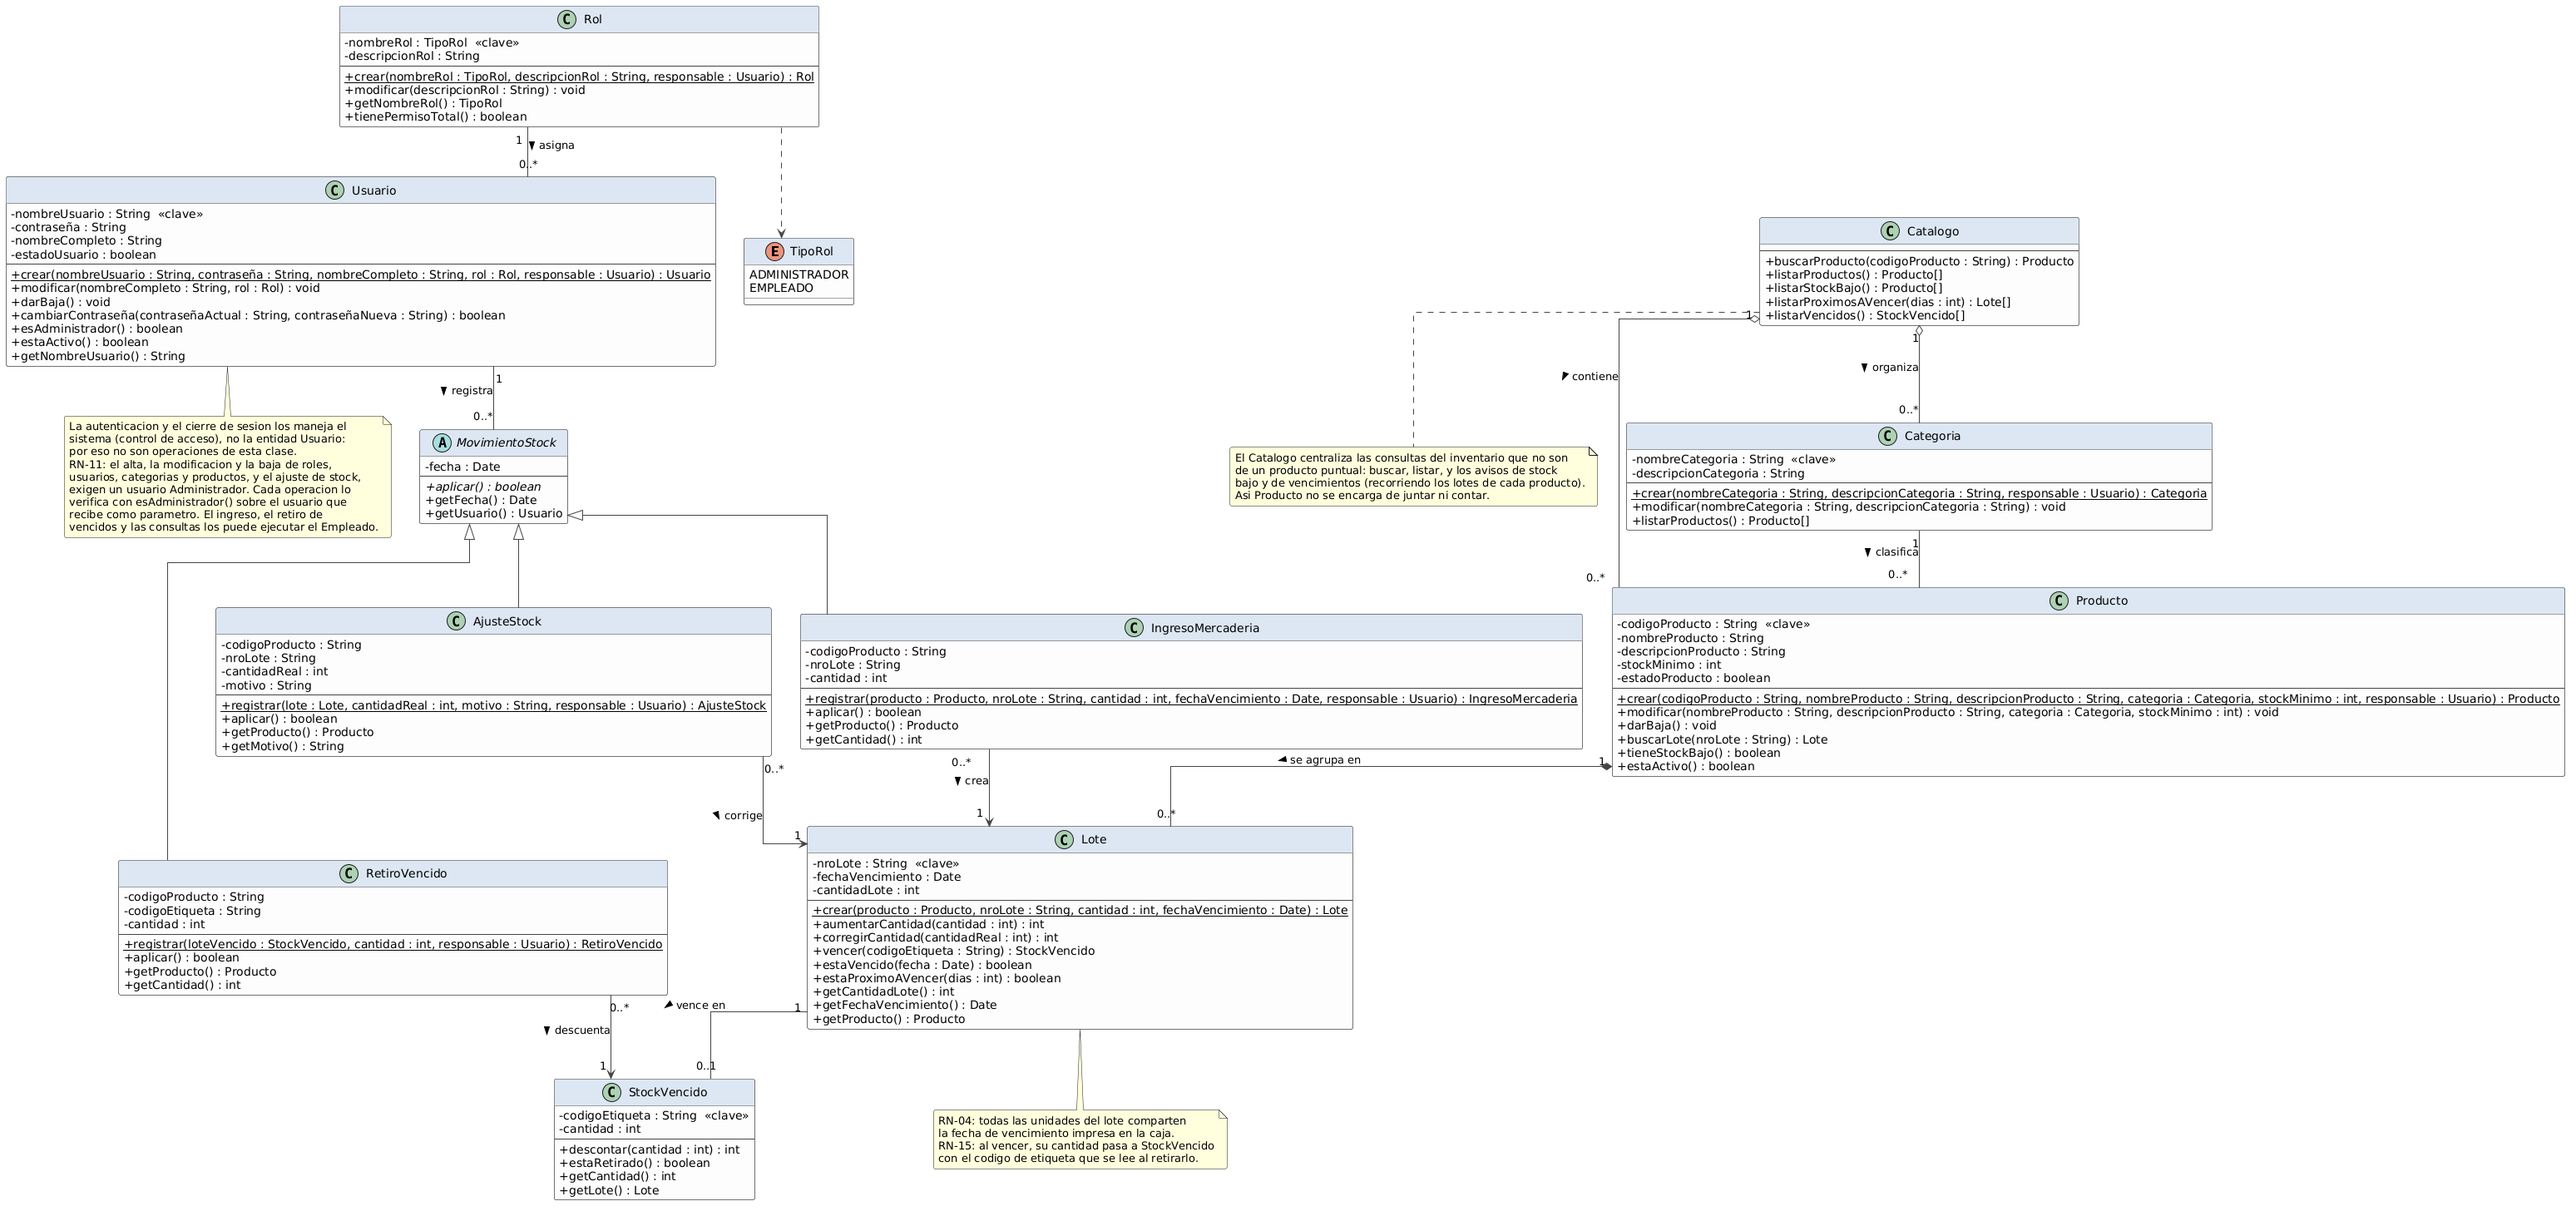
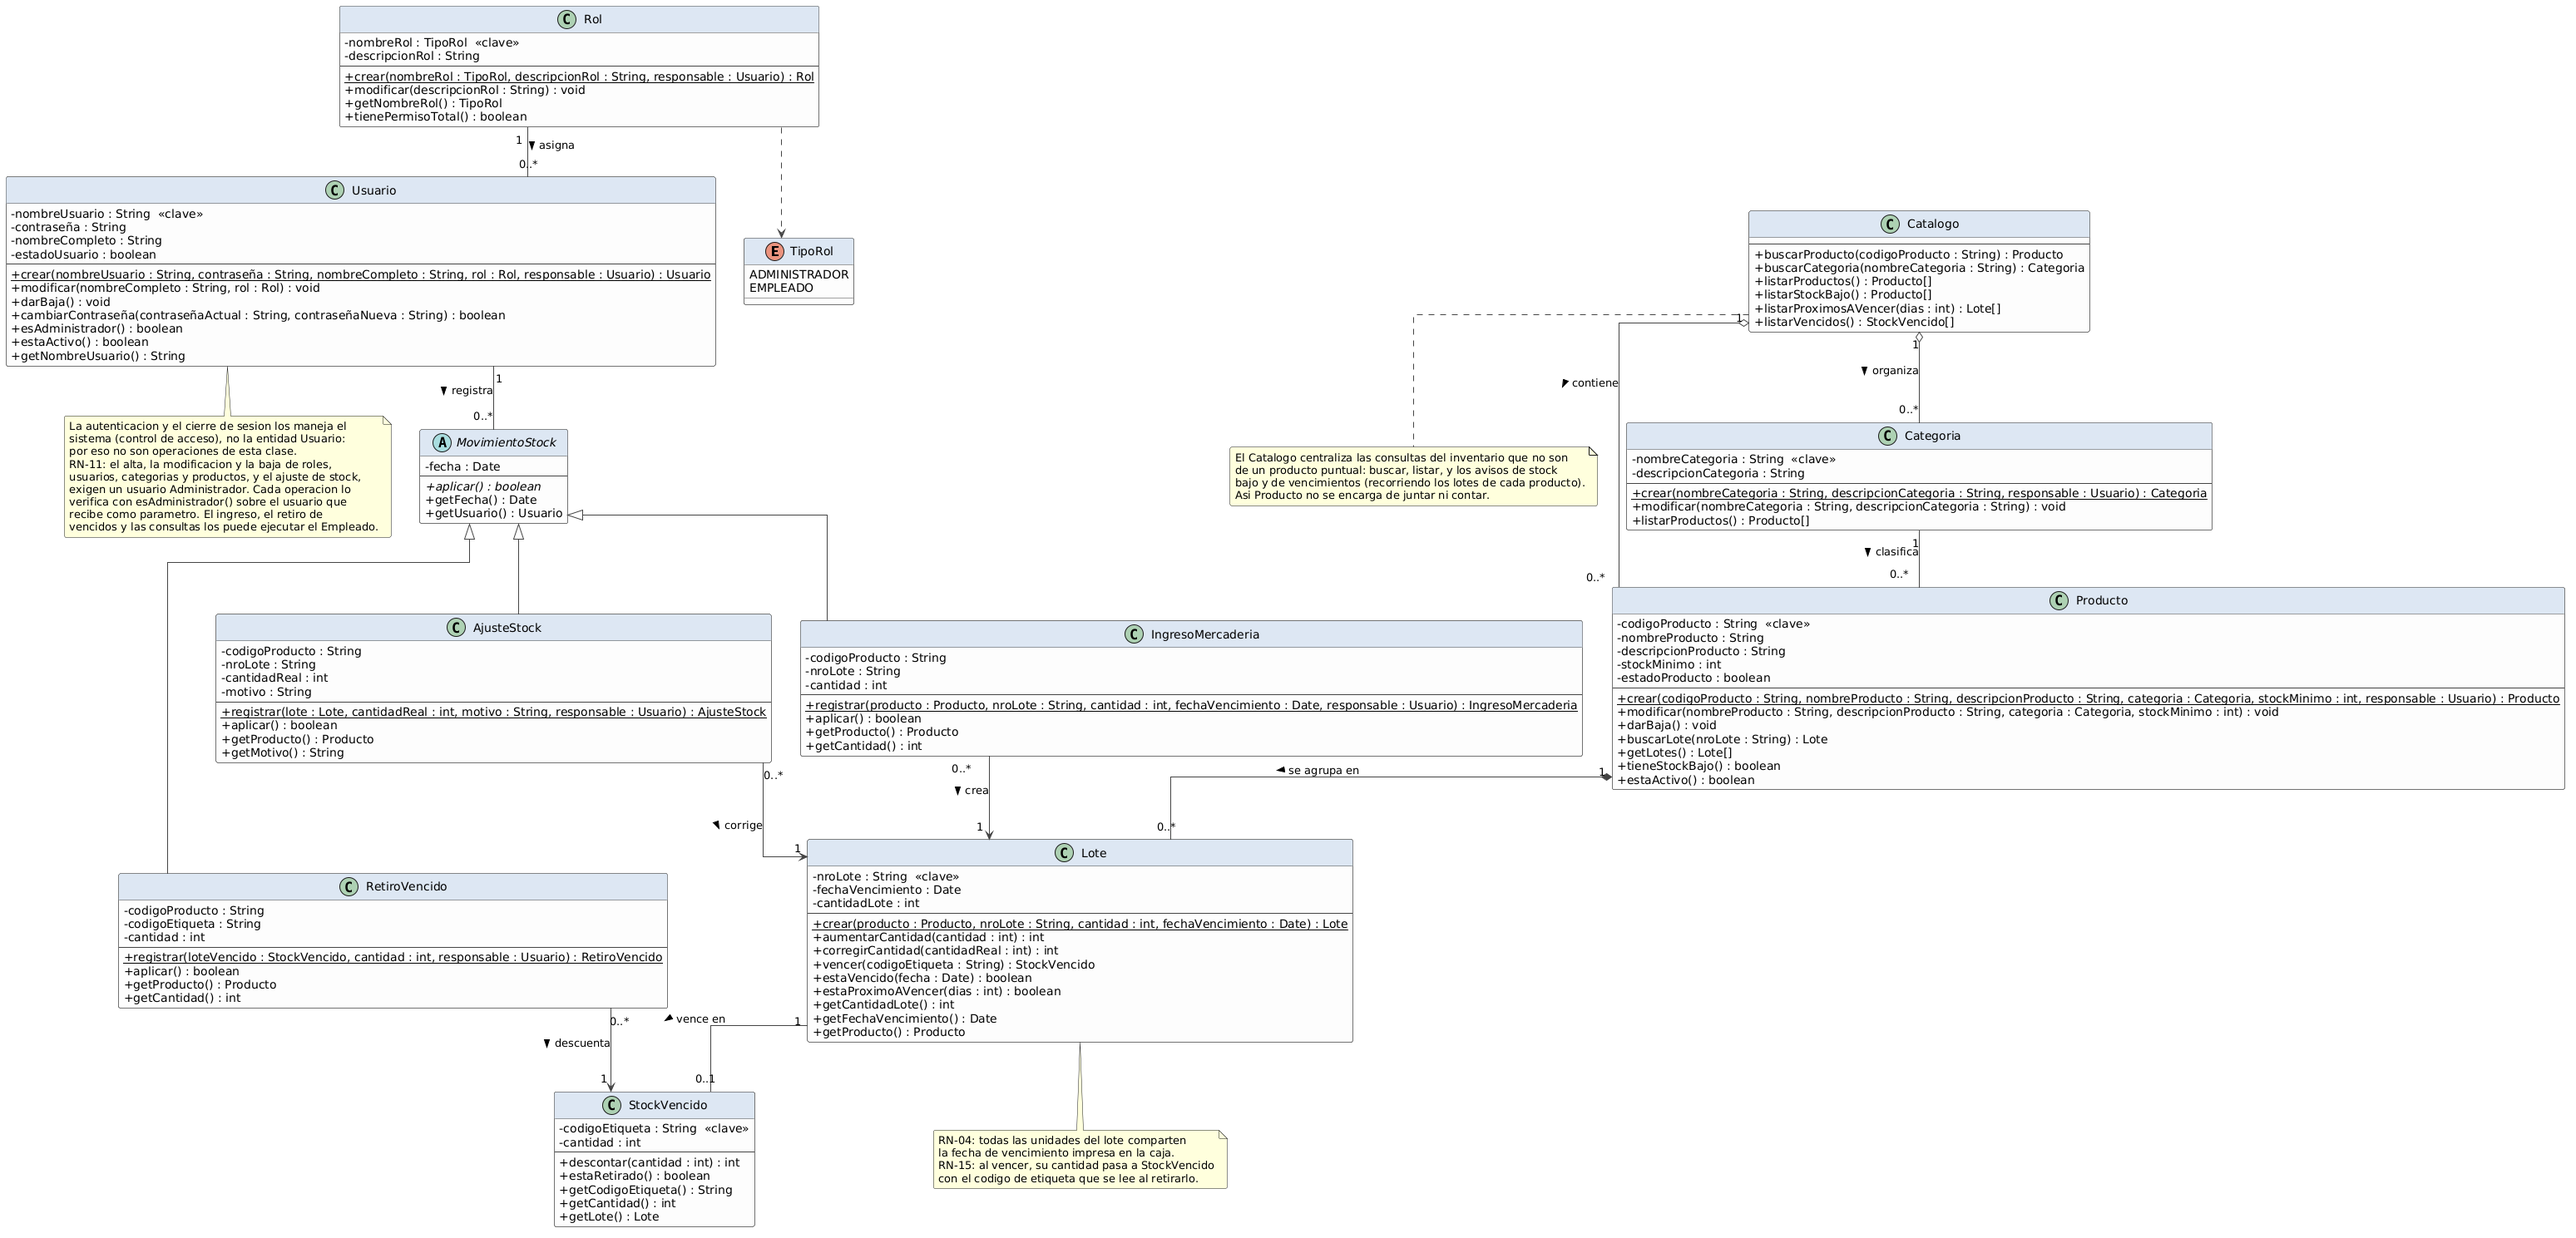
cambios

diff --git a/08-Diagrama De Secuencia/Diagramas_de_Secuencia.md b/08-Diagrama De Secuencia/Diagramas_de_Secuencia.md
@@ -8,7 +8,6 @@
 > - `crear(...)` / `registrar(...)`: operación de clase (`{static}`) que crea el objeto; el objeto nuevo aparece en el punto donde se crea.
 > - `loop` = bucle, `opt` = opcional, `alt` = alternativo.
 > - `responsable:Usuario` es el usuario logueado que ejecuta la operación; las operaciones lo verifican con `esAdministrador()` (RN-11).
-> - **⚠** marca un método que el caso de uso necesita y que **todavía no existe en el DCC**.
 >
 > Los **procesos automáticos** (vencimiento de lote, alertas) no se diagraman porque no los inicia un actor.
 
@@ -17,6 +16,7 @@
 ## CU-01 - Iniciar sesión
 
 ```mermaid
+%%{init: {"sequence": {"mirrorActors": false}, "themeCSS": ".loopLine { stroke-dasharray: none !important; stroke-width: 1.5px !important; }"}}%%
 sequenceDiagram
     actor u as u:Usuario
     participant ci as ci:ControladorIniciarSesion
@@ -54,6 +54,7 @@ sequenceDiagram
 ### Alta
 
 ```mermaid
+%%{init: {"sequence": {"mirrorActors": false}, "themeCSS": ".loopLine { stroke-dasharray: none !important; stroke-width: 1.5px !important; }"}}%%
 sequenceDiagram
     actor adm as adm:Administrador
     participant cgu as cgu:ControladorGestionarUsuario
@@ -79,6 +80,7 @@ sequenceDiagram
 ### Modificación y baja
 
 ```mermaid
+%%{init: {"sequence": {"mirrorActors": false}, "themeCSS": ".loopLine { stroke-dasharray: none !important; stroke-width: 1.5px !important; }"}}%%
 sequenceDiagram
     actor adm as adm:Administrador
     participant cgu as cgu:ControladorGestionarUsuario
@@ -111,6 +113,7 @@ sequenceDiagram
 ### Alta
 
 ```mermaid
+%%{init: {"sequence": {"mirrorActors": false}, "themeCSS": ".loopLine { stroke-dasharray: none !important; stroke-width: 1.5px !important; }"}}%%
 sequenceDiagram
     actor adm as adm:Administrador
     participant cgc as cgc:ControladorGestionarCategoria
@@ -118,7 +121,7 @@ sequenceDiagram
     participant resp as responsable:Usuario
 
     adm->>+cgc: altaCategoria(nombreCategoria : String, descripcionCategoria : String)
-    cgc->>+cat: buscarCategoria(nombreCategoria : String) ⚠
+    cgc->>+cat: buscarCategoria(nombreCategoria : String)
     cat-->>-cgc: «existente : Categoria»
     alt nombre disponible
         create participant c as c:Categoria
@@ -136,6 +139,7 @@ sequenceDiagram
 ### Modificación
 
 ```mermaid
+%%{init: {"sequence": {"mirrorActors": false}, "themeCSS": ".loopLine { stroke-dasharray: none !important; stroke-width: 1.5px !important; }"}}%%
 sequenceDiagram
     actor adm as adm:Administrador
     participant cgc as cgc:ControladorGestionarCategoria
@@ -146,7 +150,7 @@ sequenceDiagram
     adm->>+cgc: modificarCategoria(nombreActual : String, nombreCategoria : String, descripcionCategoria : String)
     cgc->>+resp: esAdministrador()
     resp-->>-cgc: «true»
-    cgc->>+cat: buscarCategoria(nombreActual : String) ⚠
+    cgc->>+cat: buscarCategoria(nombreActual : String)
     cat-->>-cgc: «c : Categoria»
     cgc->>+c: modificar(nombreCategoria : String, descripcionCategoria : String)
     c-->>-cgc: 
@@ -160,6 +164,7 @@ sequenceDiagram
 ### Alta
 
 ```mermaid
+%%{init: {"sequence": {"mirrorActors": false}, "themeCSS": ".loopLine { stroke-dasharray: none !important; stroke-width: 1.5px !important; }"}}%%
 sequenceDiagram
     actor adm as adm:Administrador
     participant cgp as cgp:ControladorGestionarProducto
@@ -170,7 +175,7 @@ sequenceDiagram
     cgp->>+cat: buscarProducto(codigoProducto : String)
     cat-->>-cgp: «existente : Producto»
     alt código disponible
-        cgp->>+cat: buscarCategoria(nombreCategoria : String) ⚠
+        cgp->>+cat: buscarCategoria(nombreCategoria : String)
         cat-->>-cgp: «categoria : Categoria»
         create participant p as p:Producto
         cgp->>+p: crear(codigoProducto : String, nombreProducto : String, descripcionProducto : String, categoria : Categoria, stockMinimo : int, responsable : Usuario)
@@ -188,6 +193,7 @@ sequenceDiagram
 ### Modificación y baja
 
 ```mermaid
+%%{init: {"sequence": {"mirrorActors": false}, "themeCSS": ".loopLine { stroke-dasharray: none !important; stroke-width: 1.5px !important; }"}}%%
 sequenceDiagram
     actor adm as adm:Administrador
     participant cgp as cgp:ControladorGestionarProducto
@@ -200,7 +206,7 @@ sequenceDiagram
     resp-->>-cgp: «true»
     cgp->>+cat: buscarProducto(codigoProducto : String)
     cat-->>-cgp: «p : Producto»
-    cgp->>+cat: buscarCategoria(nombreCategoria : String) ⚠
+    cgp->>+cat: buscarCategoria(nombreCategoria : String)
     cat-->>-cgp: «categoria : Categoria»
     cgp->>+p: modificar(nombreProducto : String, descripcionProducto : String, categoria : Categoria, stockMinimo : int)
     p-->>-cgp: 
@@ -222,6 +228,7 @@ sequenceDiagram
 ## CU-05 - Registrar ingreso de mercadería
 
 ```mermaid
+%%{init: {"sequence": {"mirrorActors": false}, "themeCSS": ".loopLine { stroke-dasharray: none !important; stroke-width: 1.5px !important; }"}}%%
 sequenceDiagram
     actor u as u:Usuario
     participant cri as cri:ControladorRegistrarIngreso
@@ -262,7 +269,7 @@ sequenceDiagram
             lt-->>-ing: «cantidadLote : int»
         end
         ing-->>-cri: «true»
-        cri->>+p: getLotes() ⚠
+        cri->>+p: getLotes()
         p-->>-cri: «lotes : Lote[]»
         Note right of cri: stock vigente = suma de getCantidadLote()<br/>de los lotes no vencidos
         cri-->>u: «ingreso registrado + stock vigente del producto»
@@ -277,6 +284,7 @@ sequenceDiagram
 ## CU-06 - Ajustar stock
 
 ```mermaid
+%%{init: {"sequence": {"mirrorActors": false}, "themeCSS": ".loopLine { stroke-dasharray: none !important; stroke-width: 1.5px !important; }"}}%%
 sequenceDiagram
     actor adm as adm:Administrador
     participant cas as cas:ControladorAjustarStock
@@ -288,7 +296,7 @@ sequenceDiagram
     adm->>+cas: seleccionarProducto(codigoProducto : String)
     cas->>+cat: buscarProducto(codigoProducto : String)
     cat-->>-cas: «p : Producto»
-    cas->>+p: getLotes() ⚠
+    cas->>+p: getLotes()
     p-->>-cas: «lotes : Lote[]»
     loop para cada lt en lotes
         cas->>+lt: getFechaVencimiento()
@@ -328,6 +336,7 @@ sequenceDiagram
 ## CU-07 - Registrar retiro de mercadería vencida
 
 ```mermaid
+%%{init: {"sequence": {"mirrorActors": false}, "themeCSS": ".loopLine { stroke-dasharray: none !important; stroke-width: 1.5px !important; }"}}%%
 sequenceDiagram
     actor u as u:Usuario
     participant crv as crv:ControladorRegistrarRetiro
@@ -340,7 +349,7 @@ sequenceDiagram
     crv->>+cat: listarVencidos()
     cat-->>-crv: «vencidos : StockVencido[]»
     loop para cada sv en vencidos
-        crv->>+sv: getCodigoEtiqueta() ⚠
+        crv->>+sv: getCodigoEtiqueta()
         sv-->>-crv: «codigo : String»
     end
     Note right of crv: si codigo = codigoEtiqueta<br/>encontrado = vencidos[i]<br/>cortar iteración
@@ -382,6 +391,7 @@ sequenceDiagram
 ## CU-08 - Consultar productos con stock bajo
 
 ```mermaid
+%%{init: {"sequence": {"mirrorActors": false}, "themeCSS": ".loopLine { stroke-dasharray: none !important; stroke-width: 1.5px !important; }"}}%%
 sequenceDiagram
     actor u as u:Usuario
     participant csb as csb:ControladorConsultarStockBajo
@@ -411,6 +421,7 @@ sequenceDiagram
 ## CU-09 - Consultar vencimientos y stock vencido
 
 ```mermaid
+%%{init: {"sequence": {"mirrorActors": false}, "themeCSS": ".loopLine { stroke-dasharray: none !important; stroke-width: 1.5px !important; }"}}%%
 sequenceDiagram
     actor u as u:Usuario
     participant ccv as ccv:ControladorConsultarVencimientos
@@ -427,7 +438,7 @@ sequenceDiagram
     ccv->>+cat: listarProductos()
     cat-->>-ccv: «productos : Producto[]»
     loop para cada p en productos
-        ccv->>+p: getLotes() ⚠
+        ccv->>+p: getLotes()
         p-->>-ccv: «lotes : Lote[]»
         loop para cada lt en lotes
             ccv->>+lt: getCantidadLote()
@@ -451,14 +462,6 @@ sequenceDiagram
 
 ---
 
-## Métodos que faltan en el DCC (⚠)
+## Controladores
 
-Los diagramas usan tres métodos que los casos de uso necesitan y el diagrama de clases todavía no tiene:
-
-| Método | Lo usan | Para qué |
-|---|---|---|
-| `Catalogo.buscarCategoria(nombreCategoria : String) : Categoria` | CU-03, CU-04 | validar que el nombre no se repita y obtener la categoría del producto |
-| `Producto.getLotes() : Lote[]` | CU-05, CU-06, CU-09 | listar los lotes de un producto y calcular su stock vigente |
-| `StockVencido.getCodigoEtiqueta() : String` | CU-07 | encontrar el lote vencido por la etiqueta leída |
-
-Los **controladores** (`ControladorIniciarSesion`, `ControladorGestionarUsuario`, etc.) son clases de diseño nuevas: no figuran en el DCC, que modela solo el dominio.
+Los **controladores** (`ControladorIniciarSesion`, `ControladorGestionarUsuario`, etc.) son clases de diseño: no figuran en el DCC, que modela solo el dominio. Todos los métodos que los diagramas invocan sobre objetos del dominio existen en el [Diagrama de Clases](../07-Diagrama%20De%20Clases/Diagrama_de_Clases.puml).
